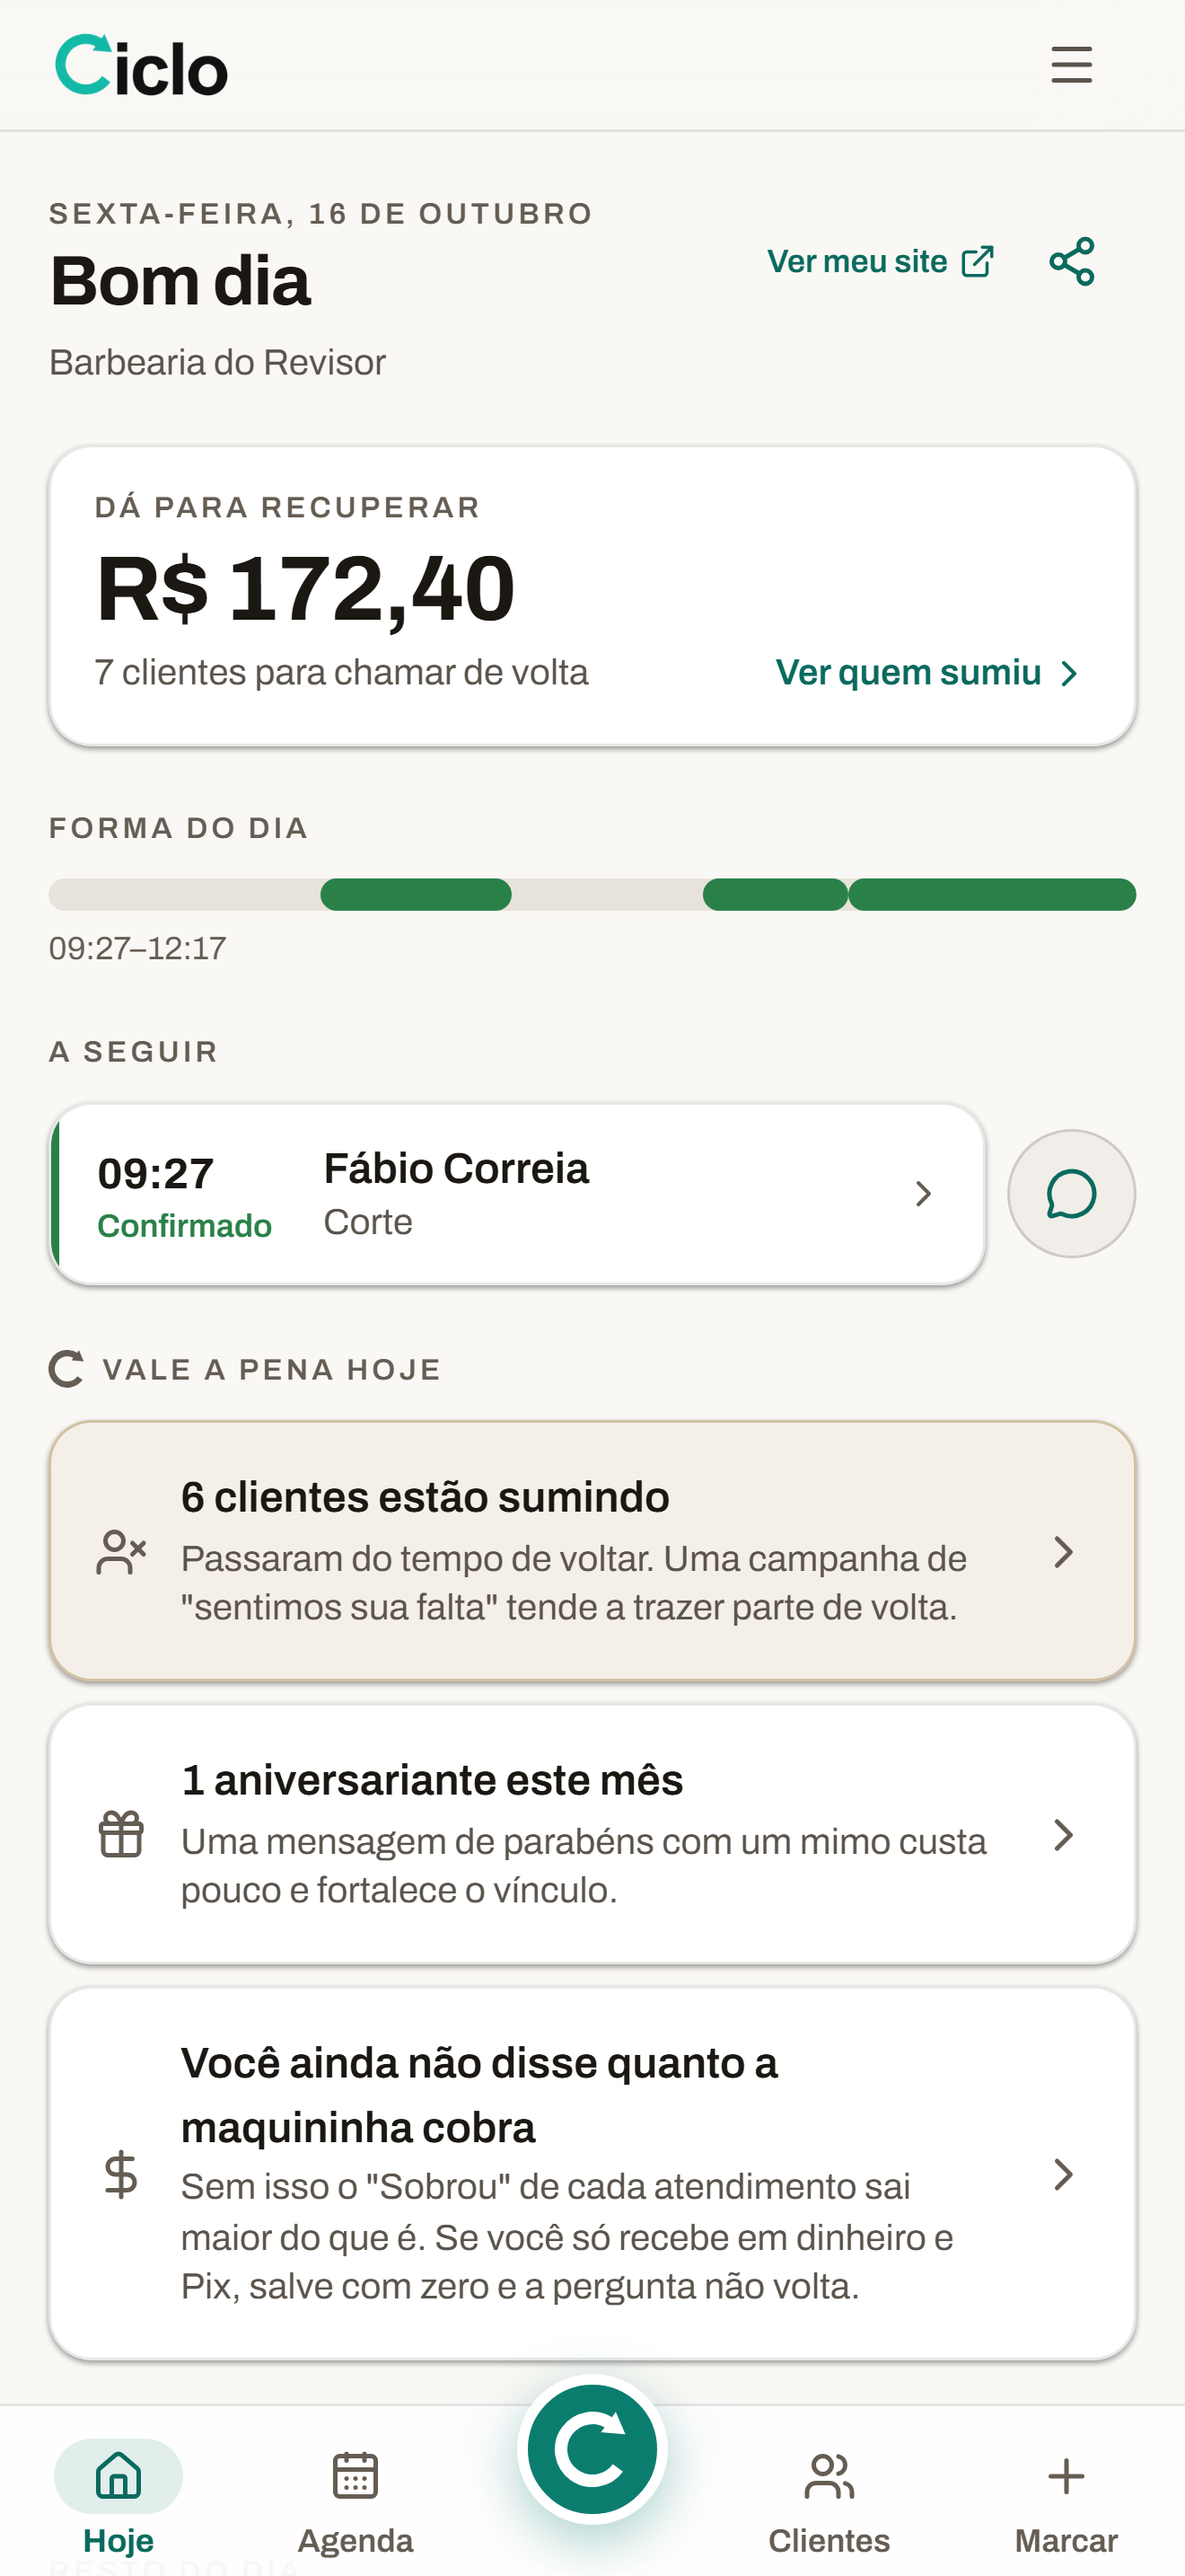
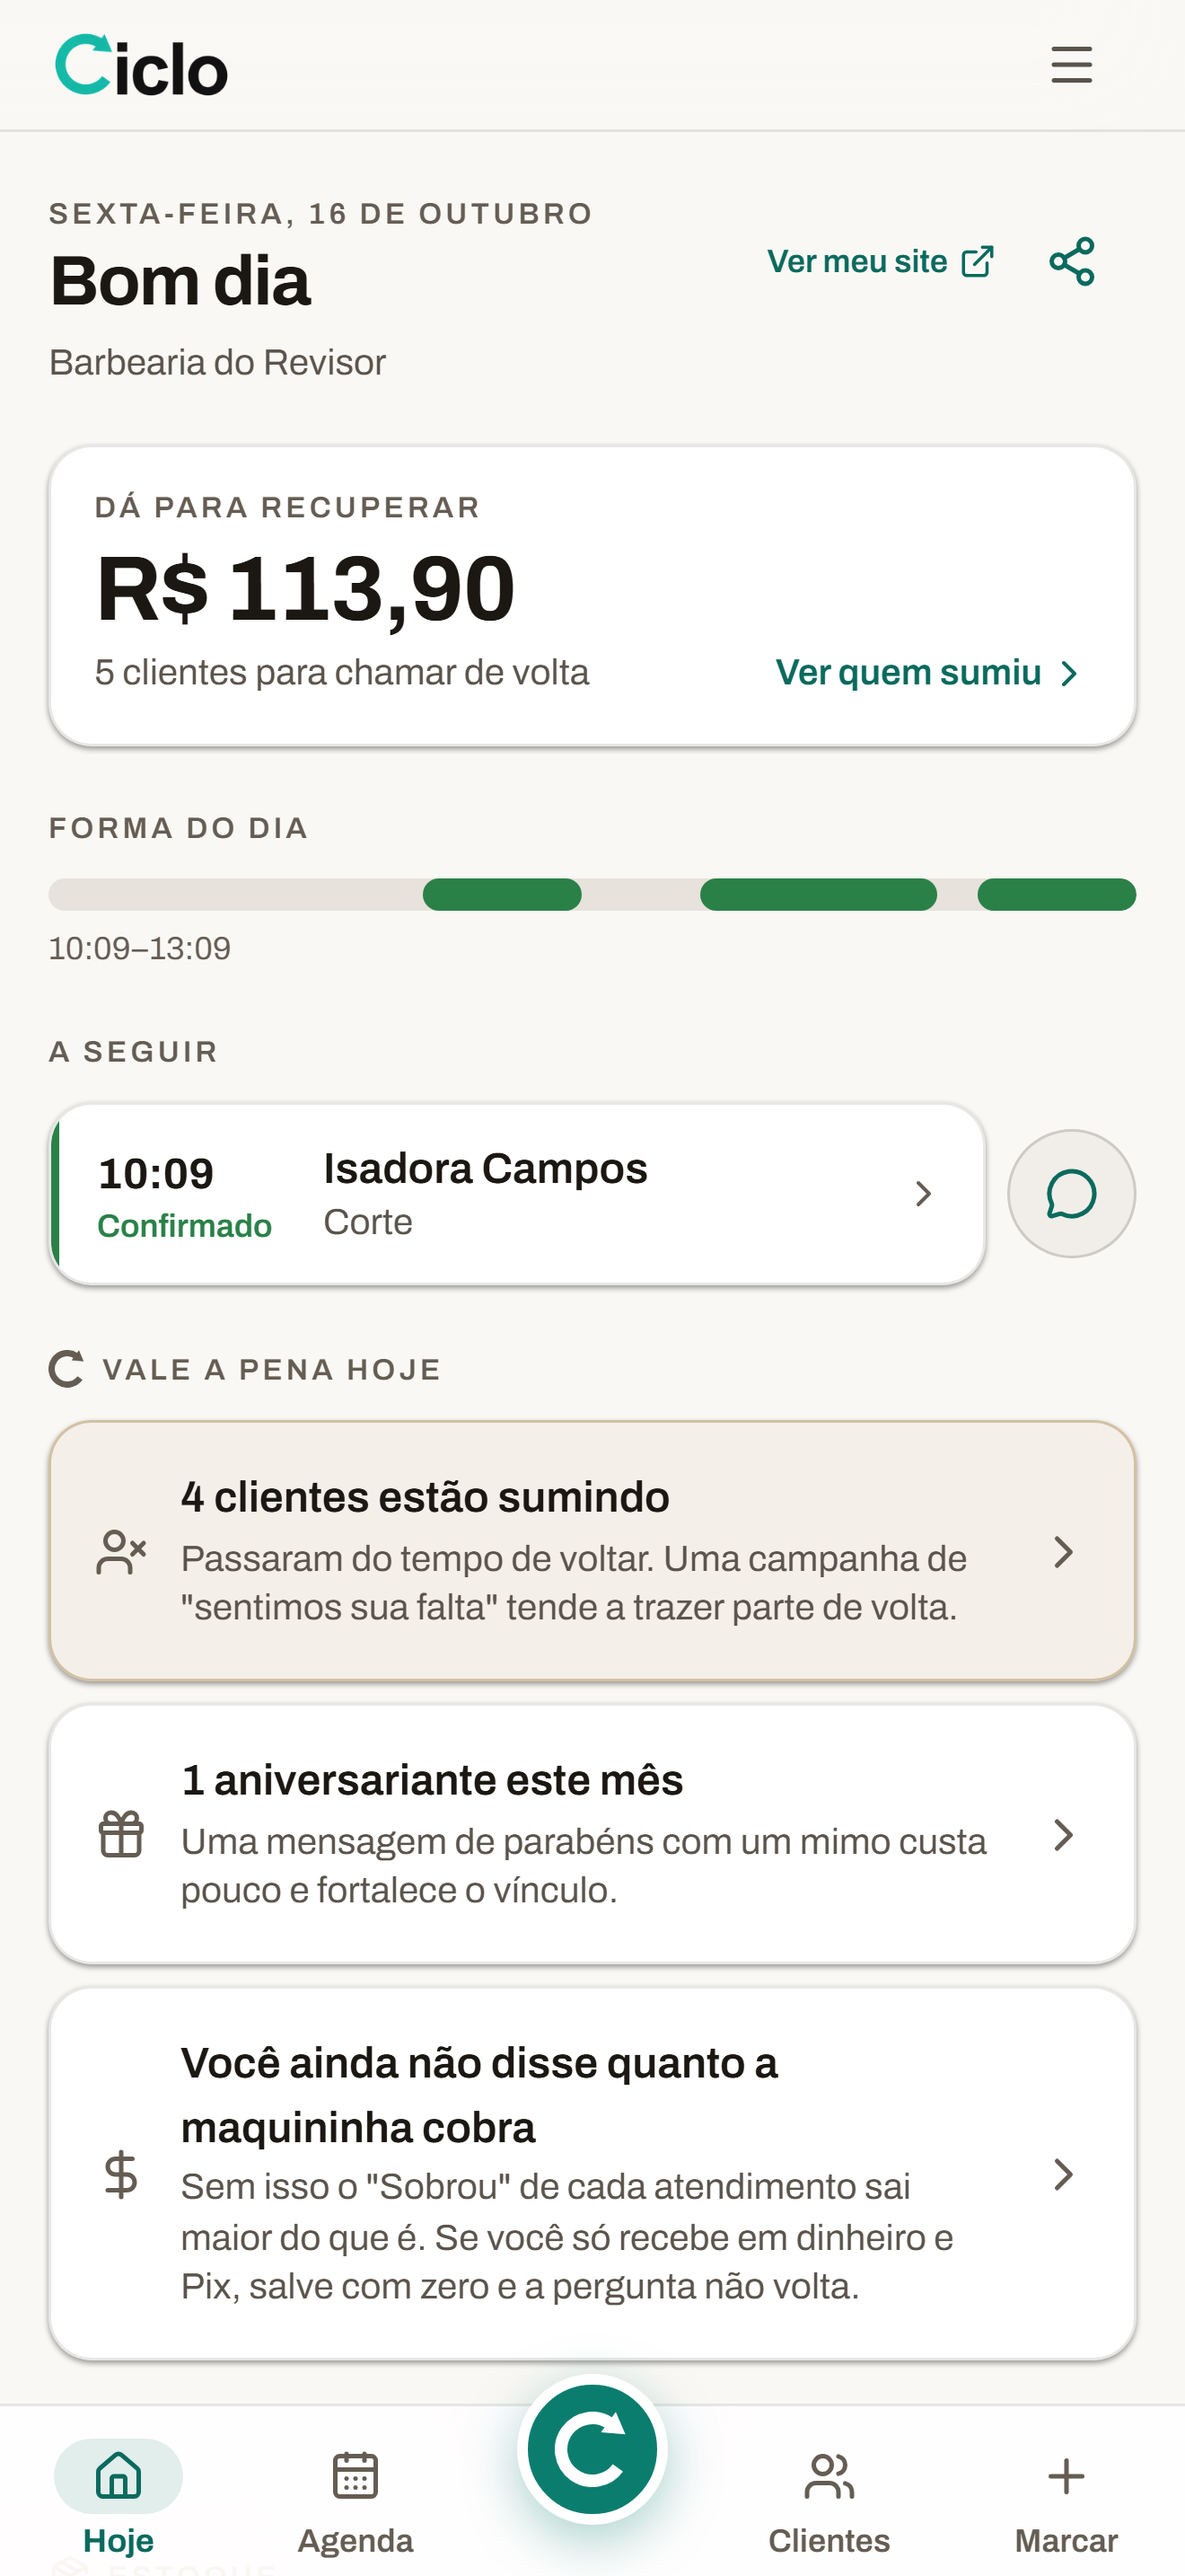
docs(98): imagens finais da loja, sem aviso de material

diff --git a/docs/98-aprimoramento/13-material-de-envio-lojas.md b/docs/98-aprimoramento/13-material-de-envio-lojas.md
@@ -94,7 +94,7 @@ Geradas do build de produção desta branch, com um negócio fictício do banco 
 
 As imagens mostram só o que a conta do revisor também mostra (regra 2.3).
 
-**Estado em 16/10, de manhã:** refeitas com a semente corrigida (Hoje e Agenda com 3 atendimentos, Recuperar com 7 pessoas e R$ 226,50, profissional "Rafael Costa"). Falta só a ficha técnica dos serviços para sumir o aviso de material. Histórico: geradas com o ensaio completo da seção 6 num Supabase local **isolado** com o esquema da `main` (o banco local compartilhado está 21 migrations à frente e quebrava o Motor). Hoje mostra "3 clientes estão sumindo" e Recuperar mostra a fila. Para a versão final: capturar **de dia** (à noite aparece "Boa noite" e "Nada marcado para hoje"), preencher o custo dos serviços (some o aviso "6 serviços estão sem o custo") (a semente foi corrigida no #151: agora há cliente em cada estado do Motor, e o Recuperar mostra 7 pessoas e R$ 202,65; era R$ 10,80 com três perdidos).
+**Estado em 16/10, de manhã:** refeitas com a semente corrigida (Hoje e Agenda com 3 atendimentos, Recuperar com 7 pessoas e R$ 226,50, profissional "Rafael Costa"). A semente também passou a registrar custo e ficha de consumo: o aviso de material sumiu e o lucro desconta o insumo. As imagens estão prontas para uso; refazer só se a interface mudar antes do envio. Histórico: geradas com o ensaio completo da seção 6 num Supabase local **isolado** com o esquema da `main` (o banco local compartilhado está 21 migrations à frente e quebrava o Motor). Hoje mostra "3 clientes estão sumindo" e Recuperar mostra a fila. Para a versão final: capturar **de dia** (à noite aparece "Boa noite" e "Nada marcado para hoje"), preencher o custo dos serviços (some o aviso "6 serviços estão sem o custo") (a semente foi corrigida no #151: agora há cliente em cada estado do Motor, e o Recuperar mostra 7 pessoas e R$ 202,65; era R$ 10,80 com três perdidos).
 
 ## 6. Preparar a conta do revisor (LOJA-54), na véspera de cada envio
 
